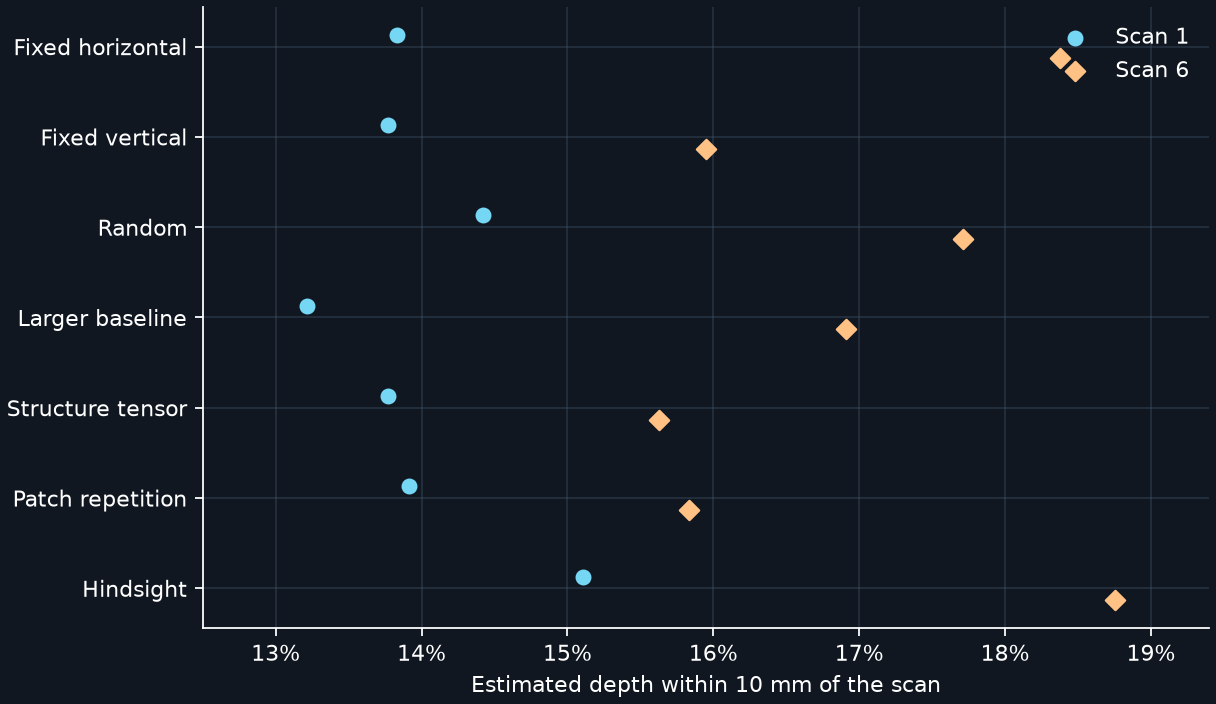
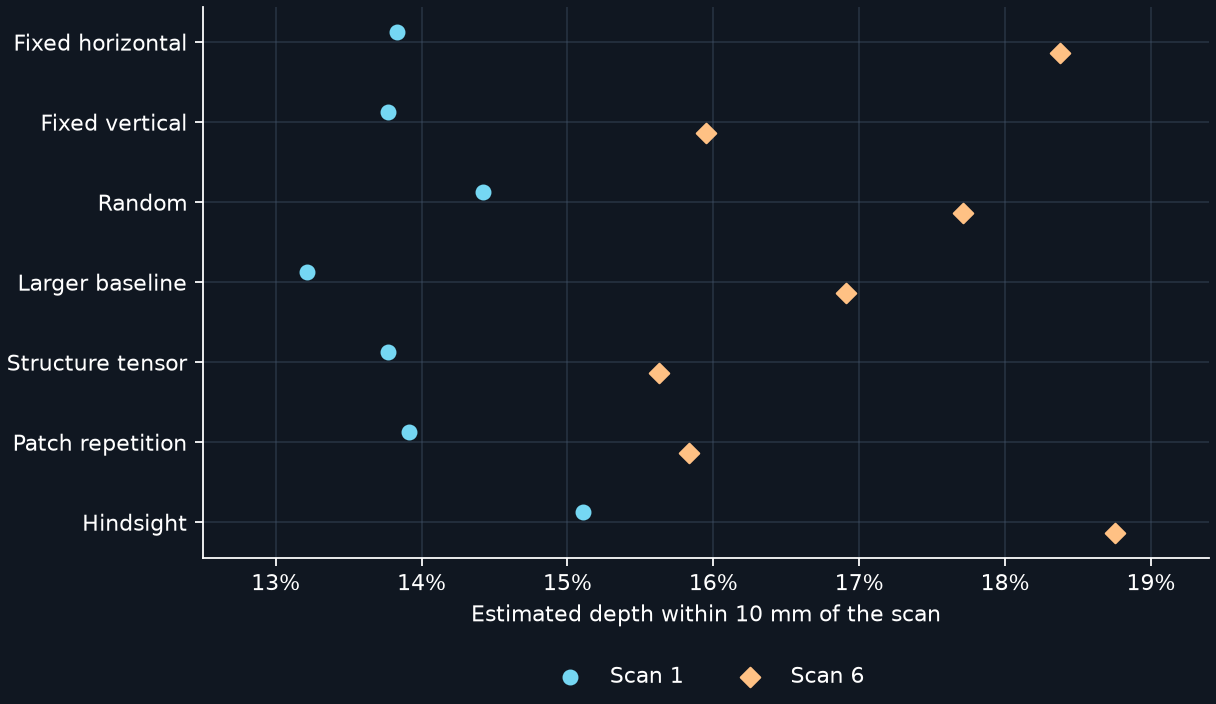
Link the live DTU pilot and move its legend clear of the data

diff --git a/dtu/figure_stereo.py b/dtu/figure_stereo.py
@@ -24,5 +24,5 @@ ax.set_xlabel("Estimated depth within 10 mm of the scan")
 ax.grid(axis="both", alpha=.4, color="#44566b")
 ax.spines[["right", "top"]].set_visible(False)
 ax.set_axisbelow(True)
-ax.legend(loc="upper right", frameon=False)
+ax.legend(loc="upper center", bbox_to_anchor=(.5, -.16), ncol=2, frameon=False)
 fig.savefig(root / "dtu-pilot.png", dpi=160)

diff --git a/dtu/PILOT_RESULTS.md b/dtu/PILOT_RESULTS.md
@@ -25,3 +25,5 @@ For both texture cues use the same central crop at quarter resolution. The repet
 The repetition cue fell below the prespecified five-point lift in both scenes. Its median absolute depth errors were 98.56 and 90.76 mm among estimated pixels. The stronger fixed-direction accuracy at 10 mm was 13.83% and 18.38%. The two measured scenes and this particular photometric estimator limit the finding. The small hindsight margin shows little additional accuracy available from choosing between these exact candidate outputs. A stronger depth estimator or a camera pair with more complementary views would define a separate test. [Audited outcomes and depth ranges](pilot-results/audit.json)
 
 Run `uv run --with numpy python dtu/verify_stereo.py` to recompute the choices, exact counts and depth errors and check the staged-input and visibility hashes. Raw photographs and scans are retrieved from DTU and kept outside the repository. The paired pilot took 66.52 seconds on an Apple M5 Ultra with 256 GiB unified memory. It used macOS 27.2, Python 3.12.16, NumPy 2.5.5 and Pillow 13.0.0. The owner proposed studying visual-only depth information. OpenAI Codex designed, ran and independently audited the pilot and assisted with writing. [Pushed source revision](pilot-results/source-revision.txt) · [Independent verifier](verify_stereo.py)
+
+[Published Pubroot article](https://pubroot.com/ai/computer-vision/a-reference-photo-cue-missed-its-target-on-two-real-dtu-scenes/) · [Submission and review](https://github.com/buildngrowsv/pubroot-website/issues/498)
